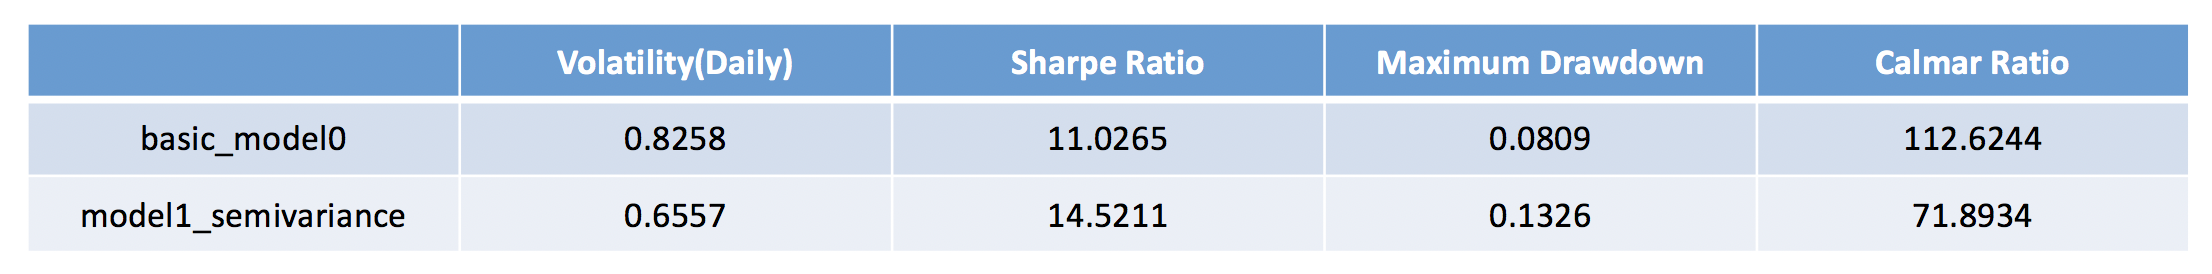
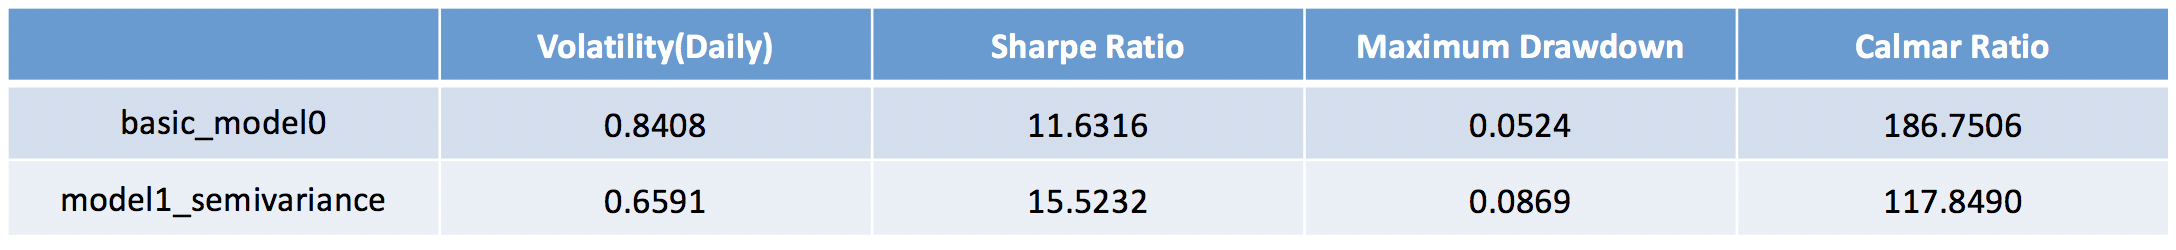
Add files via upload
New Algo Project

diff --git a/projects/algo-trading-project/index.html b/projects/algo-trading-project/index.html
@@ -105,11 +105,19 @@
 								<a href="#">
 									<img src="images/flowchart.jpg" alt="" width="80%" />
 								</a>
+								
+								<p>In this project, we intend to improve classical <span style="color:royalblue">Mean Variance Optimization(MVO)</span> which is criticized for high sensitivity to the estimation on expected return and covariance. Moreover, we want to bring the model under the background of high frequency trading.</p>
+								
+								<p>With that in Mind, we structure our project into 4 main parts: <span style="color:royalblue">Data Input</span>, <span style="color:royalblue">Alpha Signal</span>, <span style="color:royalblue">Core Portfolio Optimization engine</span> and <span style="color:royalblue">Performance Analysis</span>.</p>
 								<p>&nbsp;</p>
 
 								<a href="#">
 									<img src="images/flow2.jpeg" alt="" width="80%" />
 								</a>
+								<p>More detailedly,  instead of the original MVO input, we trained our Signal based on statistical and technical features, calculate Covariance Matrix as well as transaction cost related data (ex. Bid-ask spread, and average daily volume). Then we inject them into the core portfolio optimization scheme. </p>
+								<p>In the optimizer, we embed transaction cost analysis into the object function. We also generate long-short indicator using Signals. Beyond that, we also experimented on several extensions according to different market intuitions.  </p>
+								<p>The result of the optimization, i.e. weights determines how we trade and give us the portfolio performance.</p>
+
 							<footer>
 								<a href="#input" class="button scrolly">Project Input & Assumpation</a>
 							</footer>
@@ -136,9 +144,9 @@
 						<ul>
 						<li><h2>Assumptions:</h2>
 						<ul>
-						<li>All the stock are divisble</li>
-						<li>Price-taker trading mechanism</li>
-						<li>No shortselling ban, and higher commission fee for shortselling</li>
+						<li align="middle">a. All the stock are divisble</li>
+						<li align="middle">b. Price-taker trading mechanism</li>
+						<li align="middle">c. No shortselling ban, and higher commission fee for shortselling</li>
 
 						</ul>
 						</li>
@@ -148,17 +156,13 @@
 						<ul><li><h2>Benchmark choosing</h2><ul>
 						<p>&nbsp;</p>
 						<iframe id="igraph" scrolling="no" class="image fit" style="border:none;" seamless="seamless" src="https://plot.ly/~f_nnyz/10.embed" height="450" width="80%"></iframe>
-						<li><p >Traditional Benchmark: Index</p>
-						<ul>
-						<li>Survival Bias (stock suspension, changes in index constituents)</li>
-
-						</ul>
-						</li>
-						<li><p>Customize Benchmark</p>
-						<ul>
-						<li><p>Construct a new benmark with traded stock based on cap</p>
+						
+						<li>Traditional Benchmark: Index</li>
+						<li><span style="color:tomato">Survival Bias Problem</span> (stock suspension, changes in index constituents...)</li>
 						<p>&nbsp;</p>
-						</li>
+						<li>Our Solution: <span style="color:royalblue">Customized Benchmark</span></li>
+						<li>Construct a new benmark with traded stock weighted based on <span style="color:skyblue">market capitalization</span></li>
+						<p>&nbsp;</p>
 				
 
 					
@@ -176,11 +180,19 @@
 
 							<header>
 								<h2>Alpha Signal</h2>
-								<h3>Financial Machine Learning</h3> 
+								<h3><span style="background-color:DodgerBlue;color:white"> Concept </span>  Financial Machine Learning</h3> 
 							</header>
 							
 							<body class='typora-export' >
-							<div  id='write'  class = 'is-mac'><ul><li><p>A. classical linear alpha signal prediction among stock market is <strong>notirously difficult </strong> </p><ul><li>Non-linearity  </li><li>Noisy Randomness </li><li>Pattern Decay - <em>Regime Shift</em>  </li></ul><p>&nbsp;</p></li><li><p>B. general machine learning in finance is <strong>naively implemented</strong> </p><ul><li><p>Time Series  </p></li><li><p>Robustness</p><p>&nbsp;</p></li></ul></li></ul>
+							<div  id='write'  class = 'is-mac'><ul><li><p>A. classical linear alpha signal prediction among stock market is <span style="color:tomato">notirously difficult... </span>
+							</p><ul><li>Non-linearity  </li>
+								<li>Noisy Randomness </li>
+								<li>Pattern Decay - <em>Regime Shift</em>  </li></ul>
+							<li><p>B. general machine learning in finance is <span style="color:tomato">naively implemented</span> </p><ul><li>Time Series</li><li>Robustness</li></ul></li></ul>
+							<p>&nbsp;</p></li>
+
+							<p> For this section, we aim to design a machine-learning based model to dynamically select out the upward and downward trending stock among the stock pool. Specifically, the machine learning algorithm output a trading signal for each stocks from training in the histrocial data. We strive to preserve the <span style="color:tomato">overfitting issue</span> while maintaining a <span style="color:royalblue">robust prediction</span> to capture the trend under test set, thus enhancing the potential performance in true test set, which is live trading. 
+							</p>
 
 
 							<footer>
@@ -205,17 +217,20 @@
 						<p>&nbsp;</p>
 
 						<li>Feature Selection</li>
-						<p>apply light gradient boosting tree model to find the feature importance</p>
+						<p>apply light gradient boosting tree model to find the feature importance on predicting the future stock return trend</p>
 						<a href="#" ><img src="images/ml/feat_importance.png" alt="" /></a>
 						<p>&nbsp;</p>
 
-						<h4 align="left"><a name='header-n100' class='md-header-anchor '></a>Dependent Variables</h4><ul><li>Up (+1) - top 25% positive return stocks </li><li>Down (-1) - bottom 25% loss return stocks  </li><li>Medium (0) - the rest stocks </li></ul>
+						<h4 align="left"><a name='header-n100' class='md-header-anchor '></a>Dependent Variables</h4>
+						<p>For each 15 minute period, rank and accordingly label the pool's stock <span style="color:royalblue">next period relative return</span> as dependent target.  
+						<ul><li>Up (+1) - top 25% positive return stocks </li><li>Down (-1) - bottom 25% loss return stocks  </li><li>Medium (0) - the rest stocks </li></ul>
 						<p>&nbsp;</p>
 
 
 						<h3><a name='header-n17' class='md-header-anchor '></a>Model Selection</h3>
 
 						<h4 align="left"><a name='header-n56' class='md-header-anchor '></a>Time Series Cross Validation</h4>
+							<p>implement <span style="color:skyblue">walk-forward</span> time series cross valdiation to avoid serial autocorrelation and look-ahead bias error, thus measuring the real validation set model performance.</p>
 							<a href="#">
 									<img src="images/ml/ts-cv.png" alt="" height=400 width =300 />
 							</a>
@@ -274,6 +289,7 @@
 							<a href="#">
 								<img src="images/tca/tca.jpeg" alt="" width = 70%/></a>
 							<p>&nbsp;</p>
+							<p>From the graph, we clearly see that there is a gap between Net Value and Transaction cost adjusted net value, especially during a high volatility period. Therefore, it is of great importance to formulate and punish on the transaction cost. </p>
 
 							<h3>Commission Fee & Bia Ask</h3>
 						
@@ -357,32 +373,24 @@
 				<section id="opt" class="three">
 						<div class="container">
 							<h2>Optimization Extension</h2>
-							<ul>
+							
 
-							<li><h3>Assumptions of Minimum Variance Optimization:</h3>
-							<ul>
-							<li>Covariance matrix is the correct measure of investment risk</li>
-							<li>Investment returns canbe adequately represented by a joint elliptical distribution, e.g., Normal Distribution</li>
+							<h3>Assumptions of Minimum Variance Optimization:</h3>
+							<p>Covariance matrix is the correct measure of investment risk. Investment returns canbe adequately represented by a joint elliptical distribution, e.g., Normal Distribution.</p>
+							<p>But the reality is different...</p>
 
-
-							</ul>
-							</li>
-
-							</ul>
 							<ul>
-							<li>
-								<p align="left">But the reality is different. Therefore, our optimization extension would focus on:</p>
-							<ul>
-							<li><strong>Risk Measurement</strong></li>
-							<li><strong>Risk Management</strong></li>
-							</ul>
+							<li><p>Our optimization extension would focus on:</p>
+							<ul><li><strong>Risk Measurement</strong></li></ul>
+							<ul><li><strong>Risk Management</strong></li></ul>
 							</li>
 							</ul>
 							<a href="#">
-								<img src="images/opt/5_extension framework.png" alt="" width = 80%></a>
+								<img src="images/opt/5_extension framework.jpeg" alt="" width = 80%></a>
+							<p>&nbsp;</p>
 							<p>&nbsp;</p>
 
-							<h3 align="left">Optimization Extension 1: Downside Risk</h3>
+							<h3>Optimization Extension 1: Downside Risk</h3>
 							<ul>
 							<li><h4>Intuition:</h4>
 							<ul>
@@ -418,7 +426,7 @@
 
 							</ul>
 							<p>&nbsp;</p>
-							<h3 align="left">Optimization Extension 2: Shrink Weight</h3>
+							<h3>Optimization Extension 2: Shrink Weight</h3>
 							<ul>
 							<p>&nbsp;</p>
 							<li><h4>Intuition:</h4>
@@ -492,7 +500,7 @@
 							<p>&nbsp;</p>
 
 							<ul>
-							<li><p align="left">Source:</p>
+							<li><p>Source:</p>
 							<ul>
 							<li>Chonghui Jiang, Jiangze Du, Yunbi An, <em>Combining the minimum-variance and equally-weighted</em> <em>portfolios: Can portfolio performance be improved</em></li>
 
@@ -502,93 +510,103 @@
 							</ul>
 
 
-							<footer>
-								<a href="#extension" class="button scrolly">Project Extention</a>
-							</footer>
 							<p>&nbsp;</p>
+
+							<h3>Optimization Extension 4: CVar</h3>
+							<ul>
+							<p>&nbsp;</p>
+							<li><h4>Intuition:</h4>
+							<ul>
+							<li>Limit the maximum total amount of short selling, i.e., the L1 norm of the portfolio-weight vector is shrinked within a given threshold</li>
+							<li>A generalization of the shortselling constraint in which the total amount of short-selling should not exceed a given budget</li>
+
+							</ul>
+							</li>
+
+							</ul>
+							<ul>
+							<p>&nbsp;</p>
+							<li><h4>Formulation:</h4>
+							<ul>
+							<a href="#">
+								<img src="images/opt/extension2_form.png" alt="" width = 50%></a>
+							<p>&nbsp;</p>
+							</li>
+
+							</ul>
+							</li>
+
+							</ul>
+							<h4>Result:</h4>
+							<a href="#">
+								<img src="images/opt/curve_2.jpeg" alt="" width = 70%></a>
+							<a href="#">
+								<img src="images/opt/extension4_table.png" alt="" width = 70%></a>
+
+							<ul>
+							<p>&nbsp;</p>
+							<li><h4>Source:</h4>
+							<ul>
+							<li>Victor DeMiguel, Lorenzo Garlappi, Francisco J. &amp; Nogales Raman Uppal (July 2007), A Generalized Approach to Portfolio Optimization: Improving Performance By Constraining Portfolio Norms</li>
+
+							</ul>
+							</li>
+
+							</ul>
+
+							<p>&nbsp;</p>
+							<h3>Optimization Extension 5: Risk Parity</h3>
+							<ul>
+							<p>&nbsp;</p>
+							<li><h4>Intuition:</h4>
+							<ul>
+							<li>Limit the maximum total amount of short selling, i.e., the L1 norm of the portfolio-weight vector is shrinked within a given threshold</li>
+							<li>A generalization of the shortselling constraint in which the total amount of short-selling should not exceed a given budget</li>
+
+							</ul>
+							</li>
+
+							</ul>
+							<ul>
+							<p>&nbsp;</p>
+							<li><h4>Formulation:</h4>
+							<ul>
+							<a href="#">
+								<img src="images/opt/extension2_form.png" alt="" width = 50%></a>
+							<p>&nbsp;</p>
+							</li>
+
+							</ul>
+							</li>
+
+							</ul>
+							<h4>Result:</h4>
+							<a href="#">
+								<img src="images/opt/curve_5.jpeg" alt="" width = 70%></a>
+							<a href="#">
+								<img src="images/opt/extension5_table.png" alt="" width = 70%></a>
+
+							<ul>
+							<p>&nbsp;</p>
+							<li><h4>Source:</h4>
+							<ul>
+							<li>Victor DeMiguel, Lorenzo Garlappi, Francisco J. &amp; Nogales Raman Uppal (July 2007), A Generalized Approach to Portfolio Optimization: Improving Performance By Constraining Portfolio Norms</li>
+
+							</ul>
+							</li>
+
+							</ul>
+
+							<footer>
+								<a href="#extension" class="button scrolly">Thoughts</a>
+							</footer>
 
 
 						</div>
 					</section>
 
 
-				<section id="extension" class="two">
-						<div class="container">
-
-							<header>
-								<h2>Project Extension</h2>
-							</header>
-
-
-						<p>&nbsp;</p>
-								<ul><h3>Optimization - CVaR (Expected Shortfall)</h3>
-								<ul>
-								<li><h4>Intuition:</h4>
-								<ul>
-								<li>CVaR, a risk assessment measure that quantifies the amount of tail risk; an alternative way to improve skewness</li>
-
-								</ul>
-								</li>
-								<li><h4>Formulation:</h4>
-								<a href="#">
-								<img src="images/ext/aa.jpeg" alt="" width = 50%></a>
-								
-								<p>&nbsp;</p>
-								</li>
-
-								</ul>
-								</li>
-
-								</ul>
-								</li>
-
-								</ul>
-								<ul>
-								<li><p align="left">Source:</p>
-								<ul>
-								<li> Luis F. Zuluaga &amp; Samuel H. Cox, Improving skewness of mean-variance portfolios</li>
-
-								</ul>
-								</li>
-
-								</ul>
-								<p>&nbsp;</p>
-								<ul>
-								<li><h3>Optimization - Risk Parity</h3>
-								<ul>
-								<li><h4>Intuition:</h4>
-								<ul>
-								<li>The aim of Risk Parity Model is to make each asset contributes the same amount of risk to the portfolio</li>
-
-								</ul>
-								</li>
-								<li><h4>Formulation:</h4>
-								<a href="#">
-								<img src="images/ext/bb.jpeg" alt="" width = 50%></a>
-								
-								</ul>
-								</li>
-
-								</ul>
-								</li>
-
-								</ul>
-								</li>
-
-								</ul>
-								</li>
-										</ul>
-										<ul>
-								<p>&nbsp;</p>
-										<footer>
-											<a href="#extension2" class="button scrolly">Thoughts</a>
-										</footer>
-										<p>&nbsp;</p>
-
-
-									</div>
-							</section>
-					<section id="extension2" class="two">
+					<section id="extension" class="two">
 							<div class="container">
 
 							<header>
@@ -658,6 +676,8 @@
 
 							<iframe id="igraph" class="image fit" scrolling="no" style="border:none;" seamless="seamless" src="https://plot.ly/~f_nnyz/75.embed" height="525" width="100%"></iframe>
 							</article>
+
+							<p>Overall, we achieved an increase in Net Value; Even in bear market, our net value almost maintain flat. Internally, all models out performs benchmark. Notebly, Semi Variance model and Shrink Weight bring our optimization scheme a whole stage up.</p>
 
 						<p>&nbsp;</p>
 						<p>&nbsp;</p>
@@ -769,11 +789,11 @@
 
 							<p align="left">
 								<strong>Xiaohui Li: </strong>xl2814@columbia.edu</br>
-								<strong>Yiren Yuan: </strong></br>
-								<strong>Meihua Ren: </strong>email here</br>
-								<strong>Fan Zhang: </strong>email here</br>
-								<strong>Zhenhong ZHang: </strong>email here</br>
-								<strong>Chang Liu: </strong>email here</br>
+								<strong>Yiren Yuan: </strong>yy2891@columbia.edu</br>
+								<strong>Meihua Ren: </strong>mr3846@columbia.edu</br>
+								<strong>Fan Zhang: </strong>fz2275@columbia.edu</br>
+								<strong>Zhenhong Zhang: </strong>zz2582@columbia.edu</br>
+								<strong>Chang Liu: </strong>cl3785@columbia.edu </br>
 							</br>
 								<strong>Columbia University </strong><a href="https://ieor.columbia.edu/">Department of Industrial Engineering and Operations Research</a><br>
 							</p>
